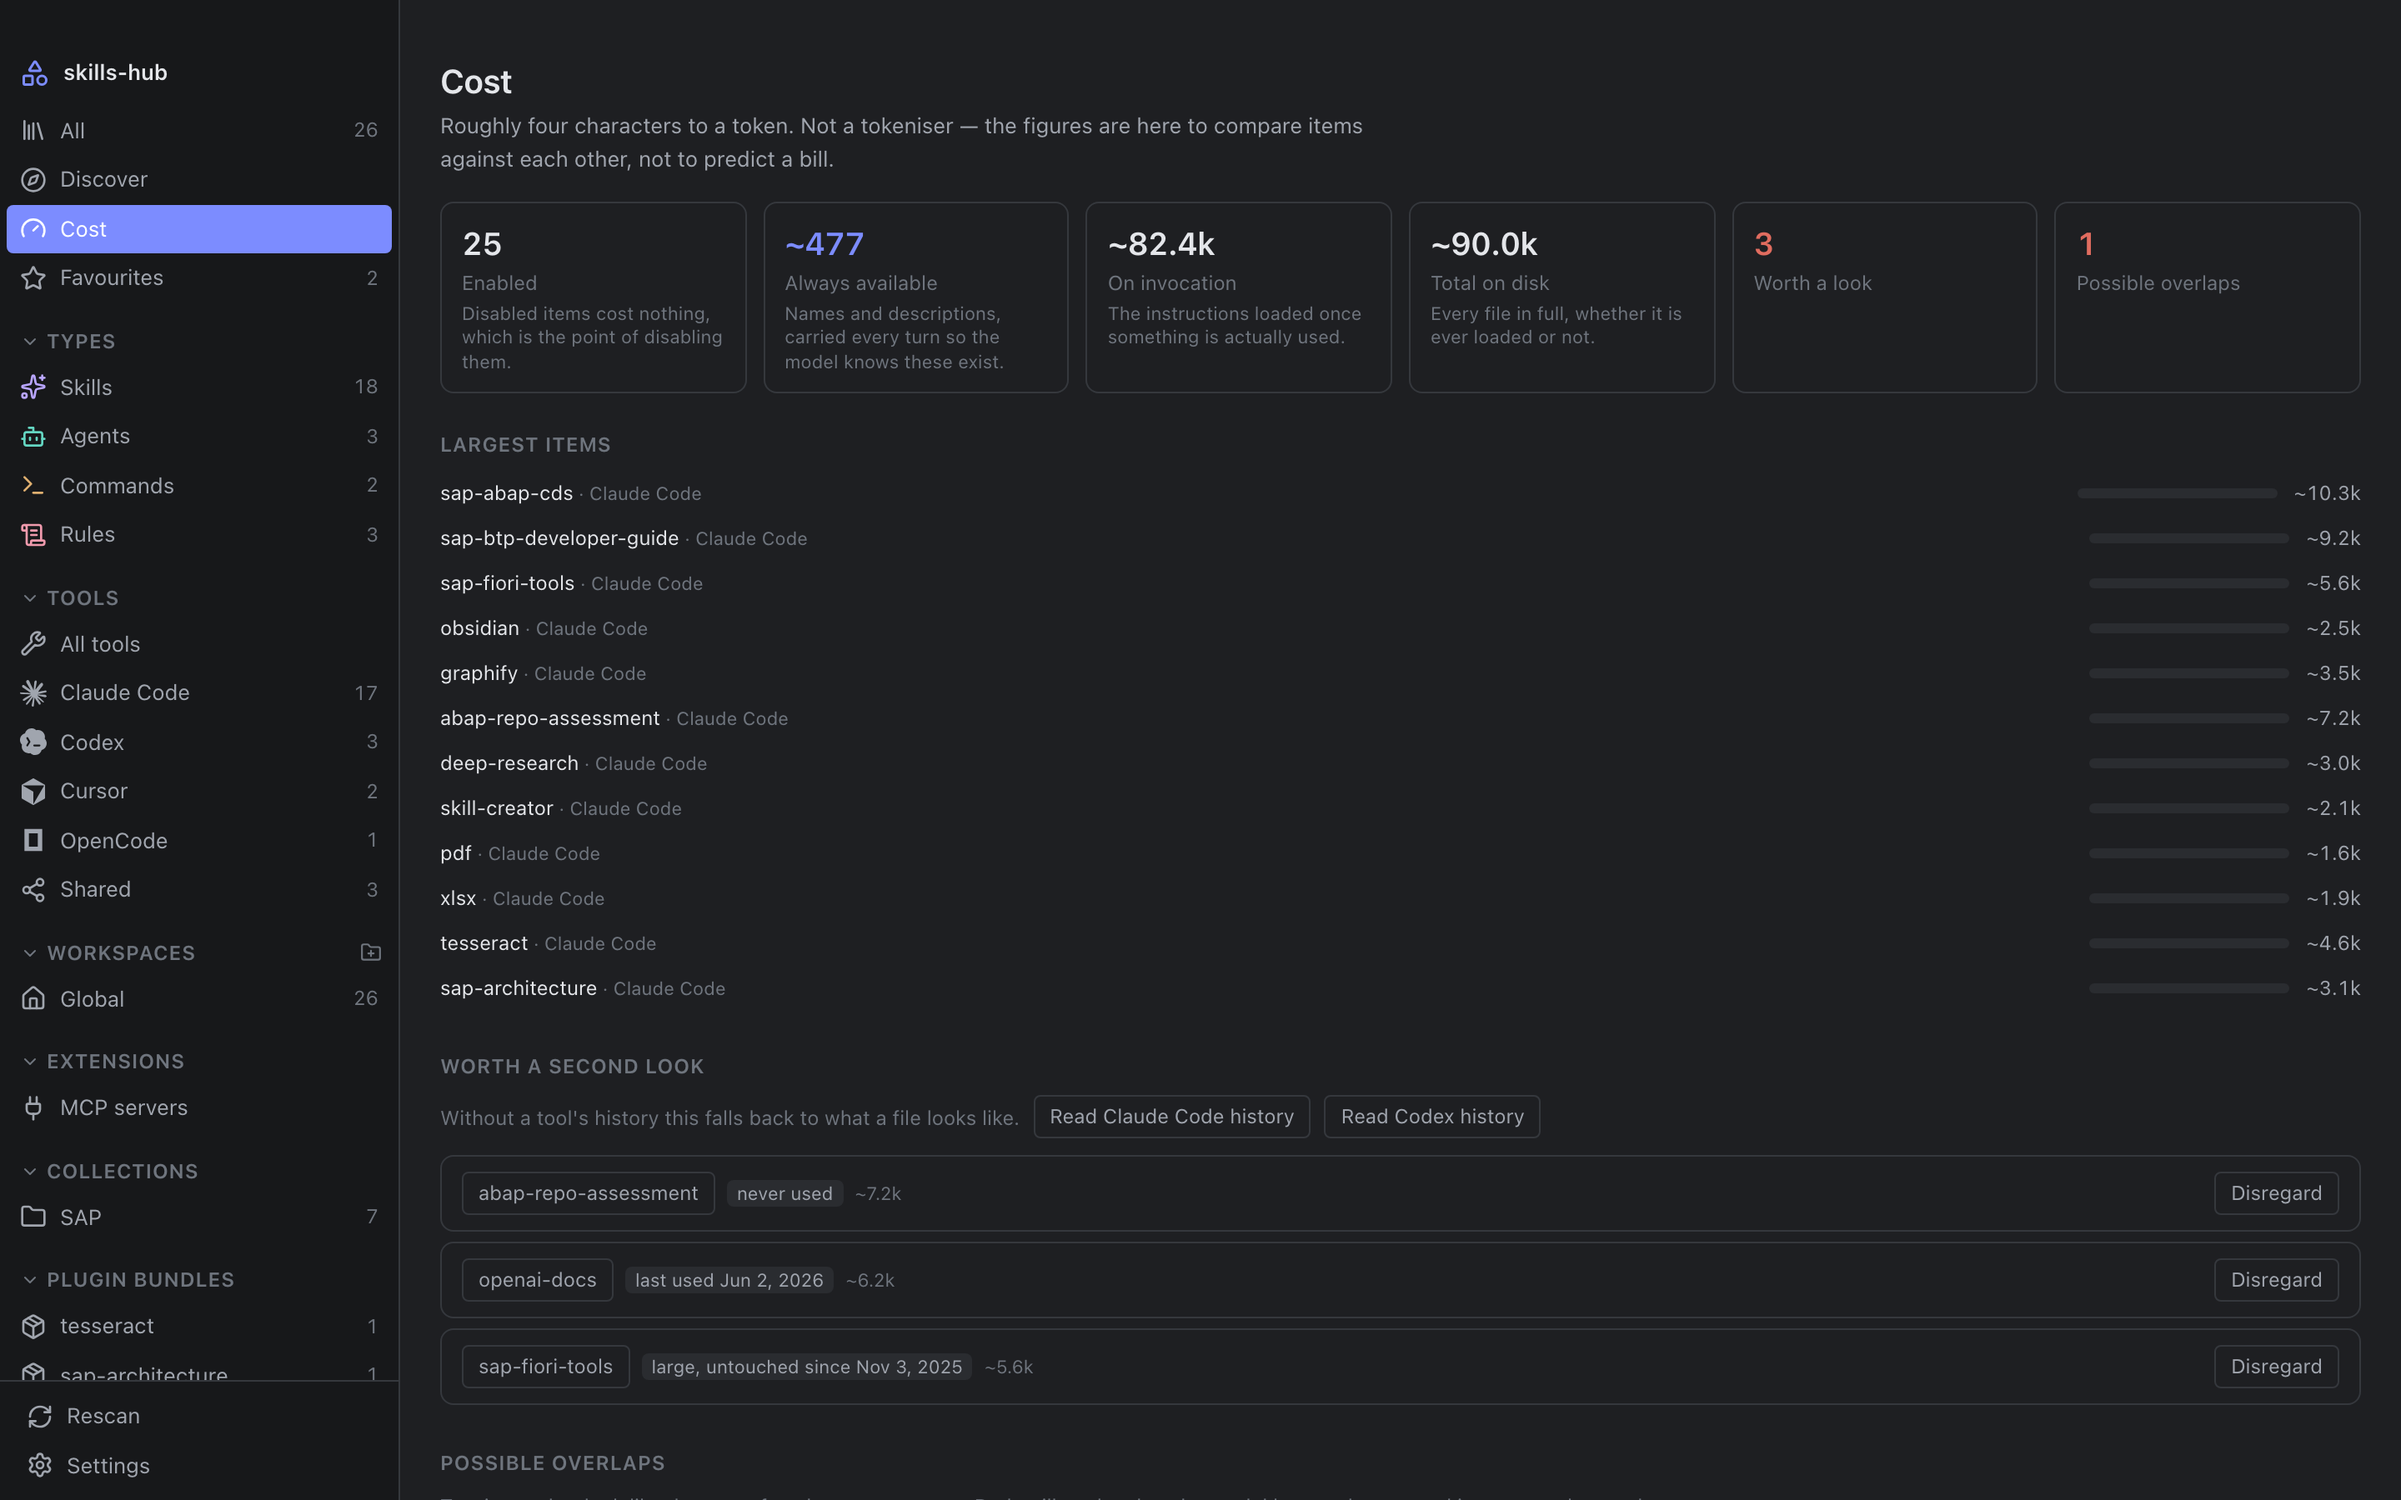
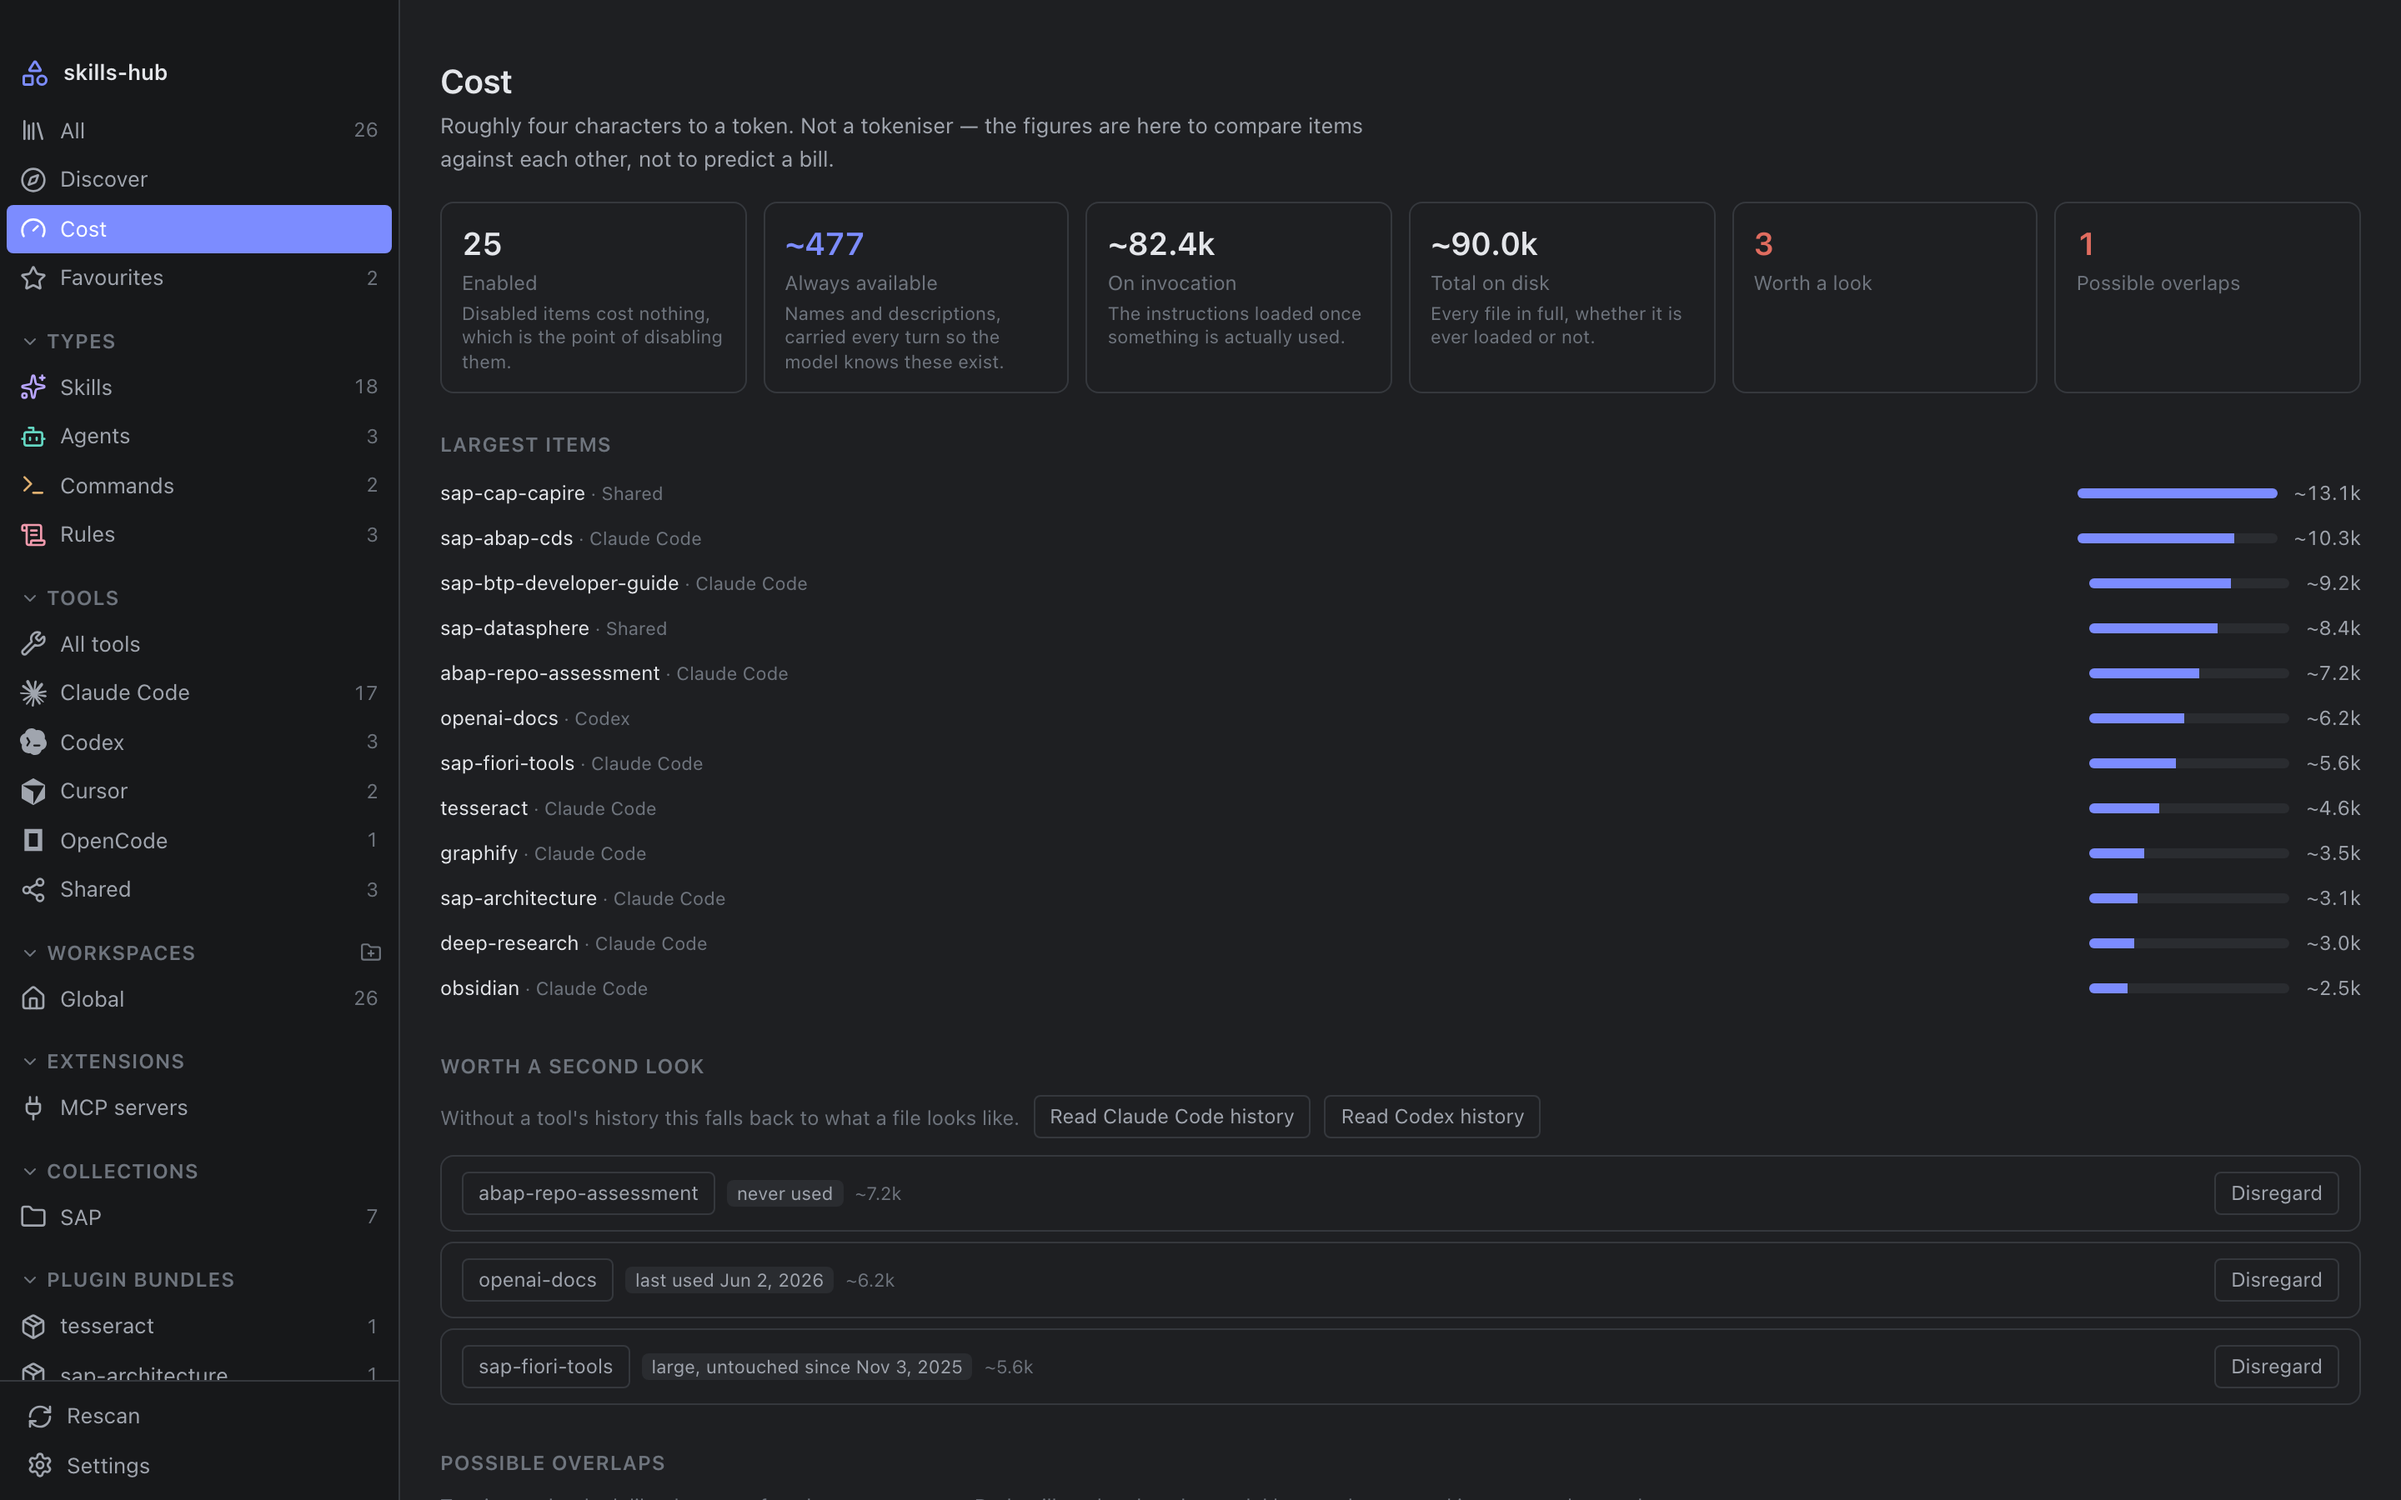
fix(ui): make the cost bars visible, and largest items largest
Two faults, found by comparing the page against the dashboard of the
plugin this is derived from.

The bar fill never rendered. Its width was computed and set correctly —
78.6%, 70.2%, and so on — but `.barFill` is a `span` inside another
`span`, and width does not apply to an inline box, so every fill
measured 0px wide. The track escaped this only because it is a grid item
and got blockified for free. `display: block` on the fill, and the
column carries information again. `Icon.tsx` already does this the right
way for the same reason.

The demo fixture built the cost report in library order and never sorted
it, so "Largest items" listed twelve arbitrary items with their bars
seemingly at random. It was not only out of order: the two largest items
in the fixture, sap-cap-capire and sap-datasphere, did not appear at all.
The Rust report sorts by source size (dashboard.rs:179); the fixture now
does the same, so the screenshots show what the section claims.

Changed region(s): [[0.1875, 0.3111, 0.3125, 0.6844], [0.875, 0.3111, 0.9375, 0.6222]]

diff --git a/src/demo/fixtures.ts b/src/demo/fixtures.ts
@@ -486,20 +486,23 @@ export const REVIEW: ReviewHandle = {
 };
 
 export const DASHBOARD: DashboardReport = {
-  costs: ITEMS.filter((item) => item.enabled).map((item, index) => {
-    const chars = SEEDS[index]?.chars ?? 4_000;
-    const modelled = item.type === "skill" || item.type === "agent";
-    return {
-      entryId: item.entryId,
-      name: item.name,
-      tool: item.tool,
-      type: item.type,
-      sourceChars: chars,
-      availableChars: modelled ? item.name.length + item.description.length + 1 : null,
-      invocationChars: modelled ? Math.round(chars * 0.94) : null,
-      modified: item.modified,
-    };
-  }),
+  // Sorted the way the Rust report sorts it, so "Largest items" is one.
+  costs: ITEMS.filter((item) => item.enabled)
+    .map((item, index) => {
+      const chars = SEEDS[index]?.chars ?? 4_000;
+      const modelled = item.type === "skill" || item.type === "agent";
+      return {
+        entryId: item.entryId,
+        name: item.name,
+        tool: item.tool,
+        type: item.type,
+        sourceChars: chars,
+        availableChars: modelled ? item.name.length + item.description.length + 1 : null,
+        invocationChars: modelled ? Math.round(chars * 0.94) : null,
+        modified: item.modified,
+      };
+    })
+    .sort((a, b) => b.sourceChars - a.sourceChars),
   prune: [
     {
       entryId: ITEMS[5]?.entryId ?? "",

diff --git a/src/components/dashboard/Dashboard.module.css b/src/components/dashboard/Dashboard.module.css
@@ -85,6 +85,9 @@
 }
 
 .barFill {
+  /* Blockified: width and height do not apply to an inline box, and the track
+     only escapes that itself by being a grid item. */
+  display: block;
   height: 100%;
   background: var(--interactive-accent);
 }
